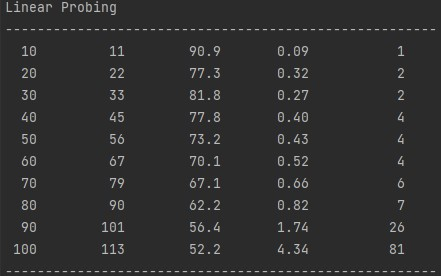
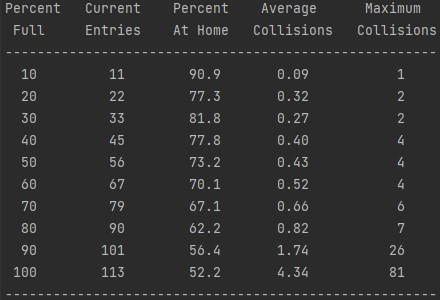
Added better screenshot and a description.

diff --git a/README.md b/README.md
@@ -38,3 +38,5 @@ Using the command:
 Produces the result:
 
 ![example](output-example.jpg/)
+Where each line is a snapshot at a given percentage thee hash table has been filled.
+(Percent at home is how many keys were placed without a collision occurring).
